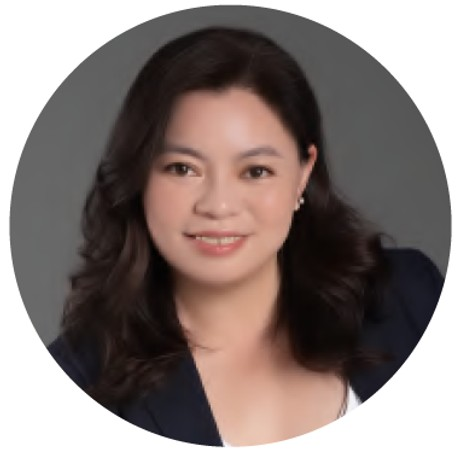
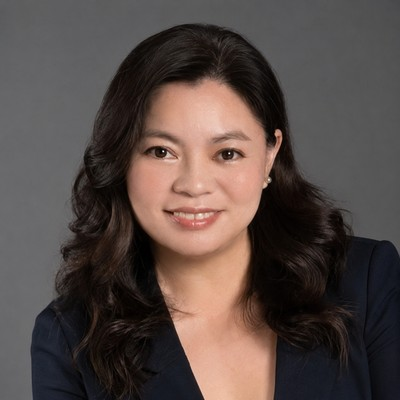
feat: update component styling and add new partner images

diff --git a/components/what-you-gain.tsx b/components/what-you-gain.tsx
@@ -119,7 +119,7 @@ export function WhatYouGain() {
   const fill = stages.length > 1 ? (active / (stages.length - 1)) * 100 : 0
 
   return (
-    <section id="what-you-gain" className="border-y border-border bg-muted/30 px-6 py-20 sm:px-10 lg:py-28">
+    <section id="what-you-gain" className="bg-background px-6 py-20 sm:px-10 lg:py-28">
       <div className="mx-auto max-w-5xl">
         {/* Header */}
         <div className="reveal text-center">
